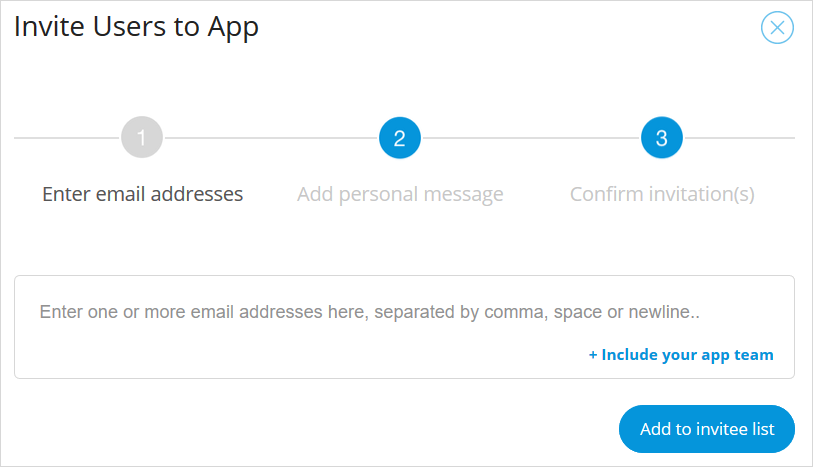
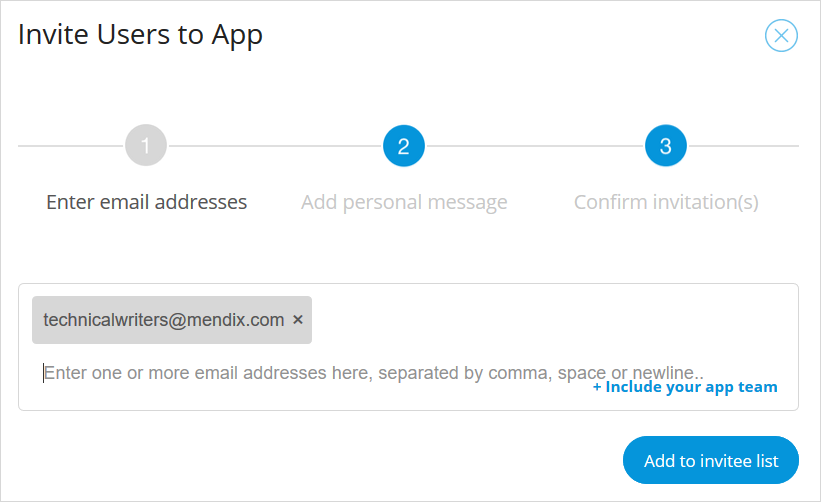
Update

diff --git a/content/developerportal/settings/general-settings.md b/content/developerportal/settings/general-settings.md
@@ -57,15 +57,15 @@ Specific steps for configuring different cloud platforms are provided here:
 
 ## 4 Managing App Users {#managing-app-users}
 
-Click **Manage App Users** to manage App Users, who are end-users who can access the deployed app on specific environments to use it, test it, and provide feedback.
+Click **Manage App Users** to manage and invite App Users, who are end-users who can access the deployed app on specific environments to use it, test it, and provide feedback.
 
 {{% alert type="info" %}}
 You can also manage app users from Studio, by clicking **Manage Users** on the **Settings > Roles and Permissions** page within Studio.
 {{% /alert %}}
 
-After clicking **Manage App Users**, you will see the environments overview for your app for which the following factors are true:
+After clicking **Manage App Users**, you will see the environments overview on the **App User Management** page for your app. The following factors are true for these environments:
 
-* Mendix Single Sign-On is implemented:
+* [Mendix Single Sign-On](../deploy/integrate-with-mendix-sso) is implemented:
 	* In Studio, SSO is automatically implemented for your app project by enabling security for your app – for details, see the [Enabling Security](/studio/settings-security#enabling-security) section of *Security, Roles & Permissions*
 	* In Studio Pro, SSO can implemented via the [AppCloudServices](https://appstore.home.mendix.com/link/app/934/) module – for details, see [Mendix Single Sign-On](../deploy/integrate-with-mendix-sso)
 * Your user role allows you to manage other users (for more information, see the [User Management Properties](/refguide/user-roles#user-management) section of *User Roles*)
@@ -74,7 +74,7 @@ After clicking **Manage App Users**, you will see the environments overview for 
 
 ### 4.1 Manage Users
 
-When you click **Manage Uses** on the environments overview, you will see the **App User Management** page with a list of the current App Users you can remove or edit:
+When you click **Manage Uses** on for your environment, you will see a page with a list of the current App Users you can remove or edit:
 
 ![](attachments/app-user-management-users.png)
 
@@ -88,16 +88,22 @@ If an App User has been granted access to an app environment through a security 
 
 ### 4.2 Invite Users
 
-To invite new App Users to your app, click **Invite Users** on the environments overview or on the  the **App User Management** page and follow these steps:
+To invite new App Users to your app, click **Invite Users** on the **App User Management** page or on the page with a list of current App Users and follow these steps:
 
 1. Enter the email addresses of the end-users you want to invite.
+
 2.  Click **Include your app team** to include invitations to all the members of your [App Team](../collaborate/team). This may be useful, because people invited to join your App Team are not added as App Users automatically.
 
 	{{% image_container width="450" %}}![](attachments/invite-app-user.png)
 	{{% /image_container %}}
 	
-3. Select the role for the App User (for example, **User** or **Administrator**). Permissions for these roles correspond to what you have configured for your app project's user roles in [Project Security](/refguide/project-security#user-roles) in Mendix Studio Pro or [Roles and Permissions](/studio/settings-security#roles-and-permissions) in Mendix Studio. If you have created a customized role, you need to publish the app before you are able to see and assign it here.
-4. Add a personal message to your invitation, and finally click **Next** then **Send Invitations** to send it.
+3. Click **Add to invitee list**.
+
+4. Select the role for the App User (for example, **User** or **Administrator**). Permissions for these roles correspond to what you have configured for your app project's user roles in [Project Security](/refguide/project-security#user-roles) in Mendix Studio Pro or [Roles and Permissions](/studio/settings-security#roles-and-permissions) in Mendix Studio. If you have created a customized role, you need to publish the app before you are able to see and assign it here.
+
+5. Click **Next**.
+
+6. Add a personal message to your invitation, and finally click **Next** then **Send Invitations** to send it.
 
 The invitee will receive an email asking them to authorize access to their Mendix account on this screen:
 

diff --git a/content/developerportal/company-app-roles/users.md b/content/developerportal/company-app-roles/users.md
@@ -4,6 +4,7 @@ parent: "companyadmin-settings"
 menu_order: 20
 description: "Describes how a Company Admin can manage an app's users in the Developer Portal."
 tags: ["company","admin", "Company Admin", Developer Portal", "activate", "deactivate", "user"]
+#If moving or renaming this doc file, implement a temporary redirect and let the respective team know they should update the URL in the product. See Mapping to Products for more details.
 ---
 
 ## 1 Introduction

diff --git a/content/refguide/user-roles.md b/content/refguide/user-roles.md
@@ -3,6 +3,7 @@ title: "User Roles"
 parent: "project-security"
 menu_order: 10
 tags: ["studio pro", "user role", "project security", "security"]
+#If moving or renaming this doc file, implement a temporary redirect and let the respective team know they should update the URL in the product. See Mapping to Products for more details.
 ---
 
 ## 1 Introduction
